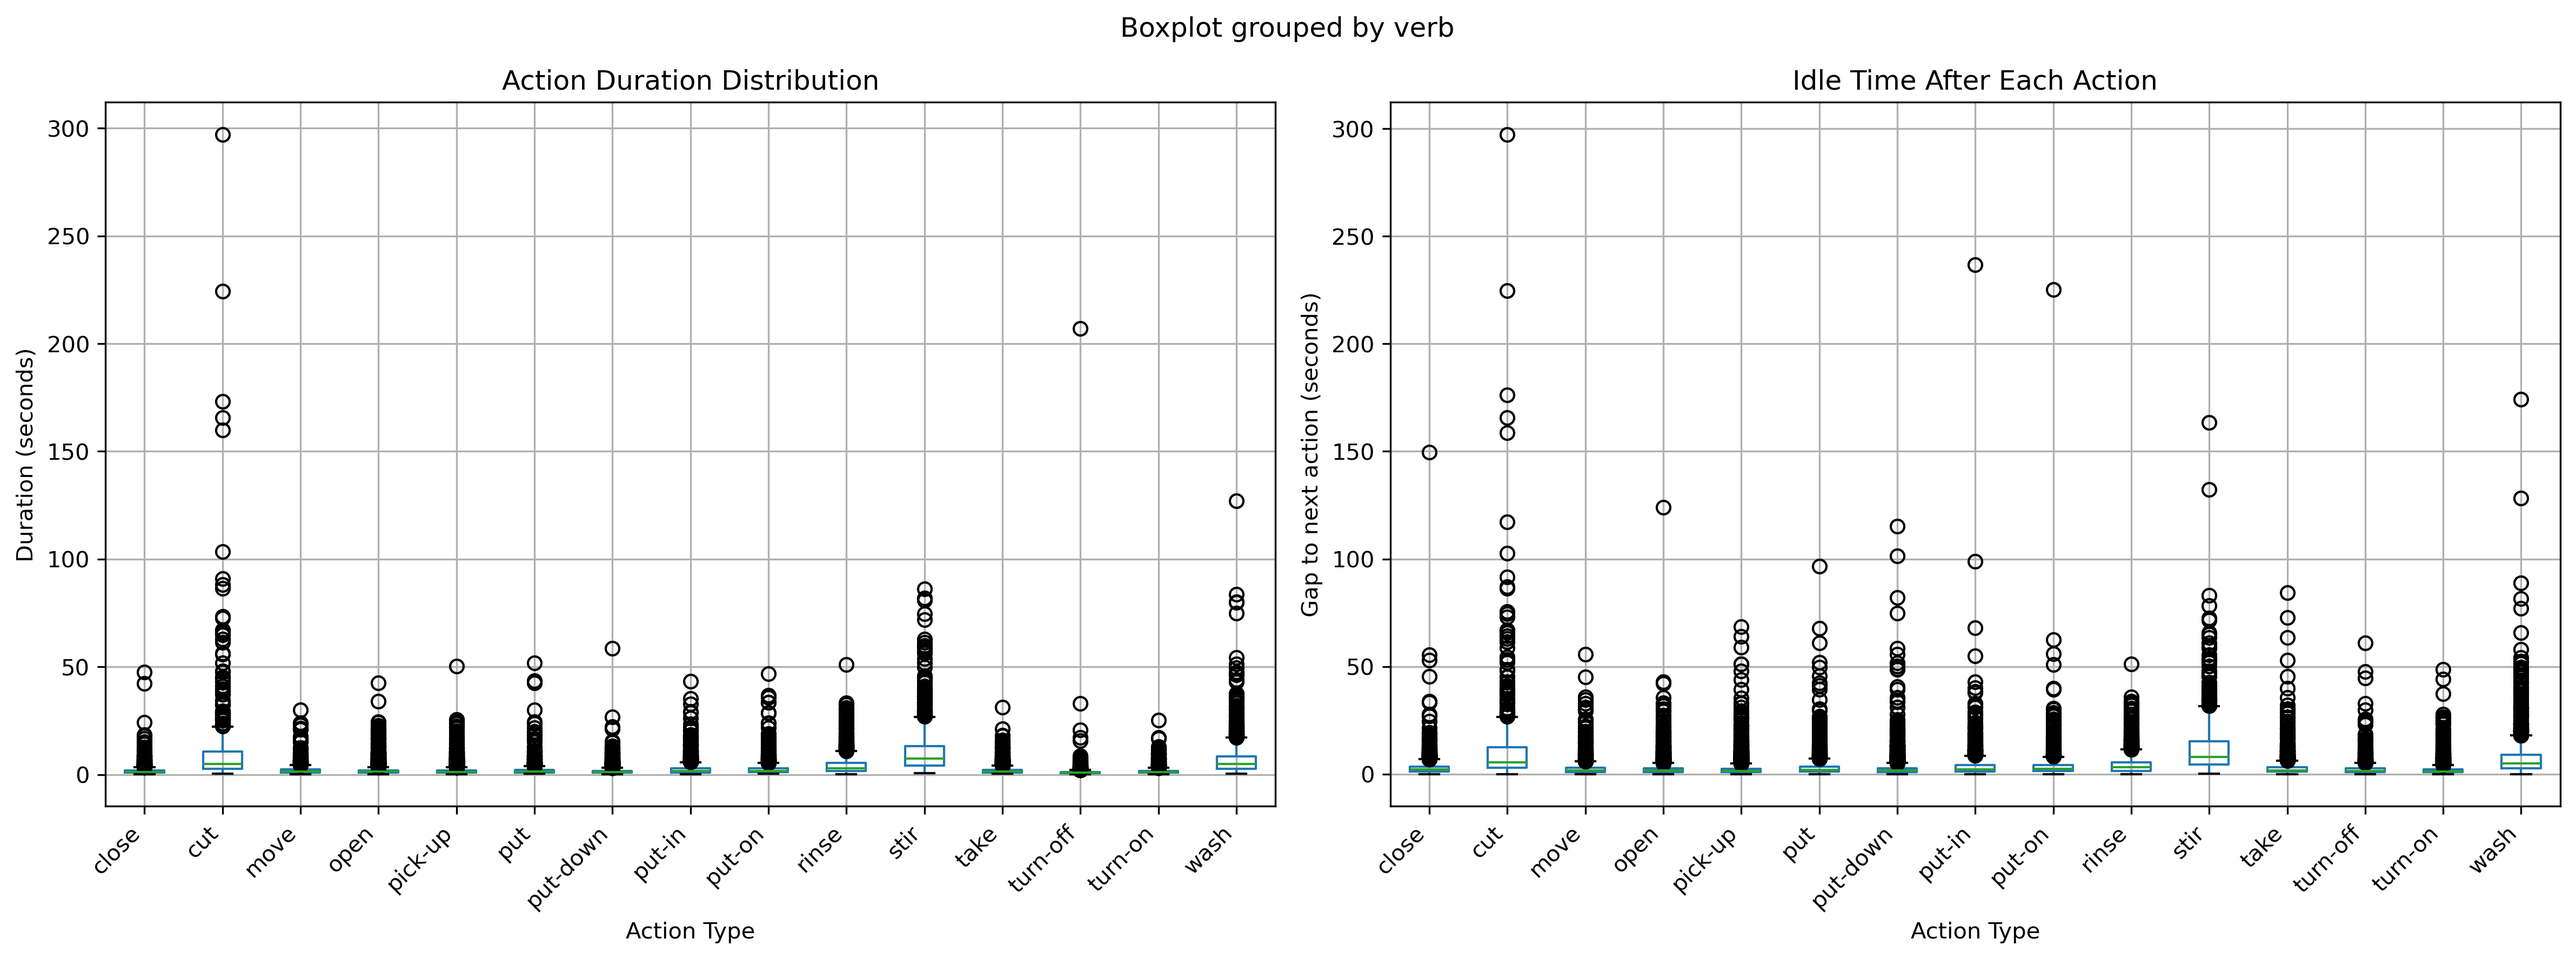
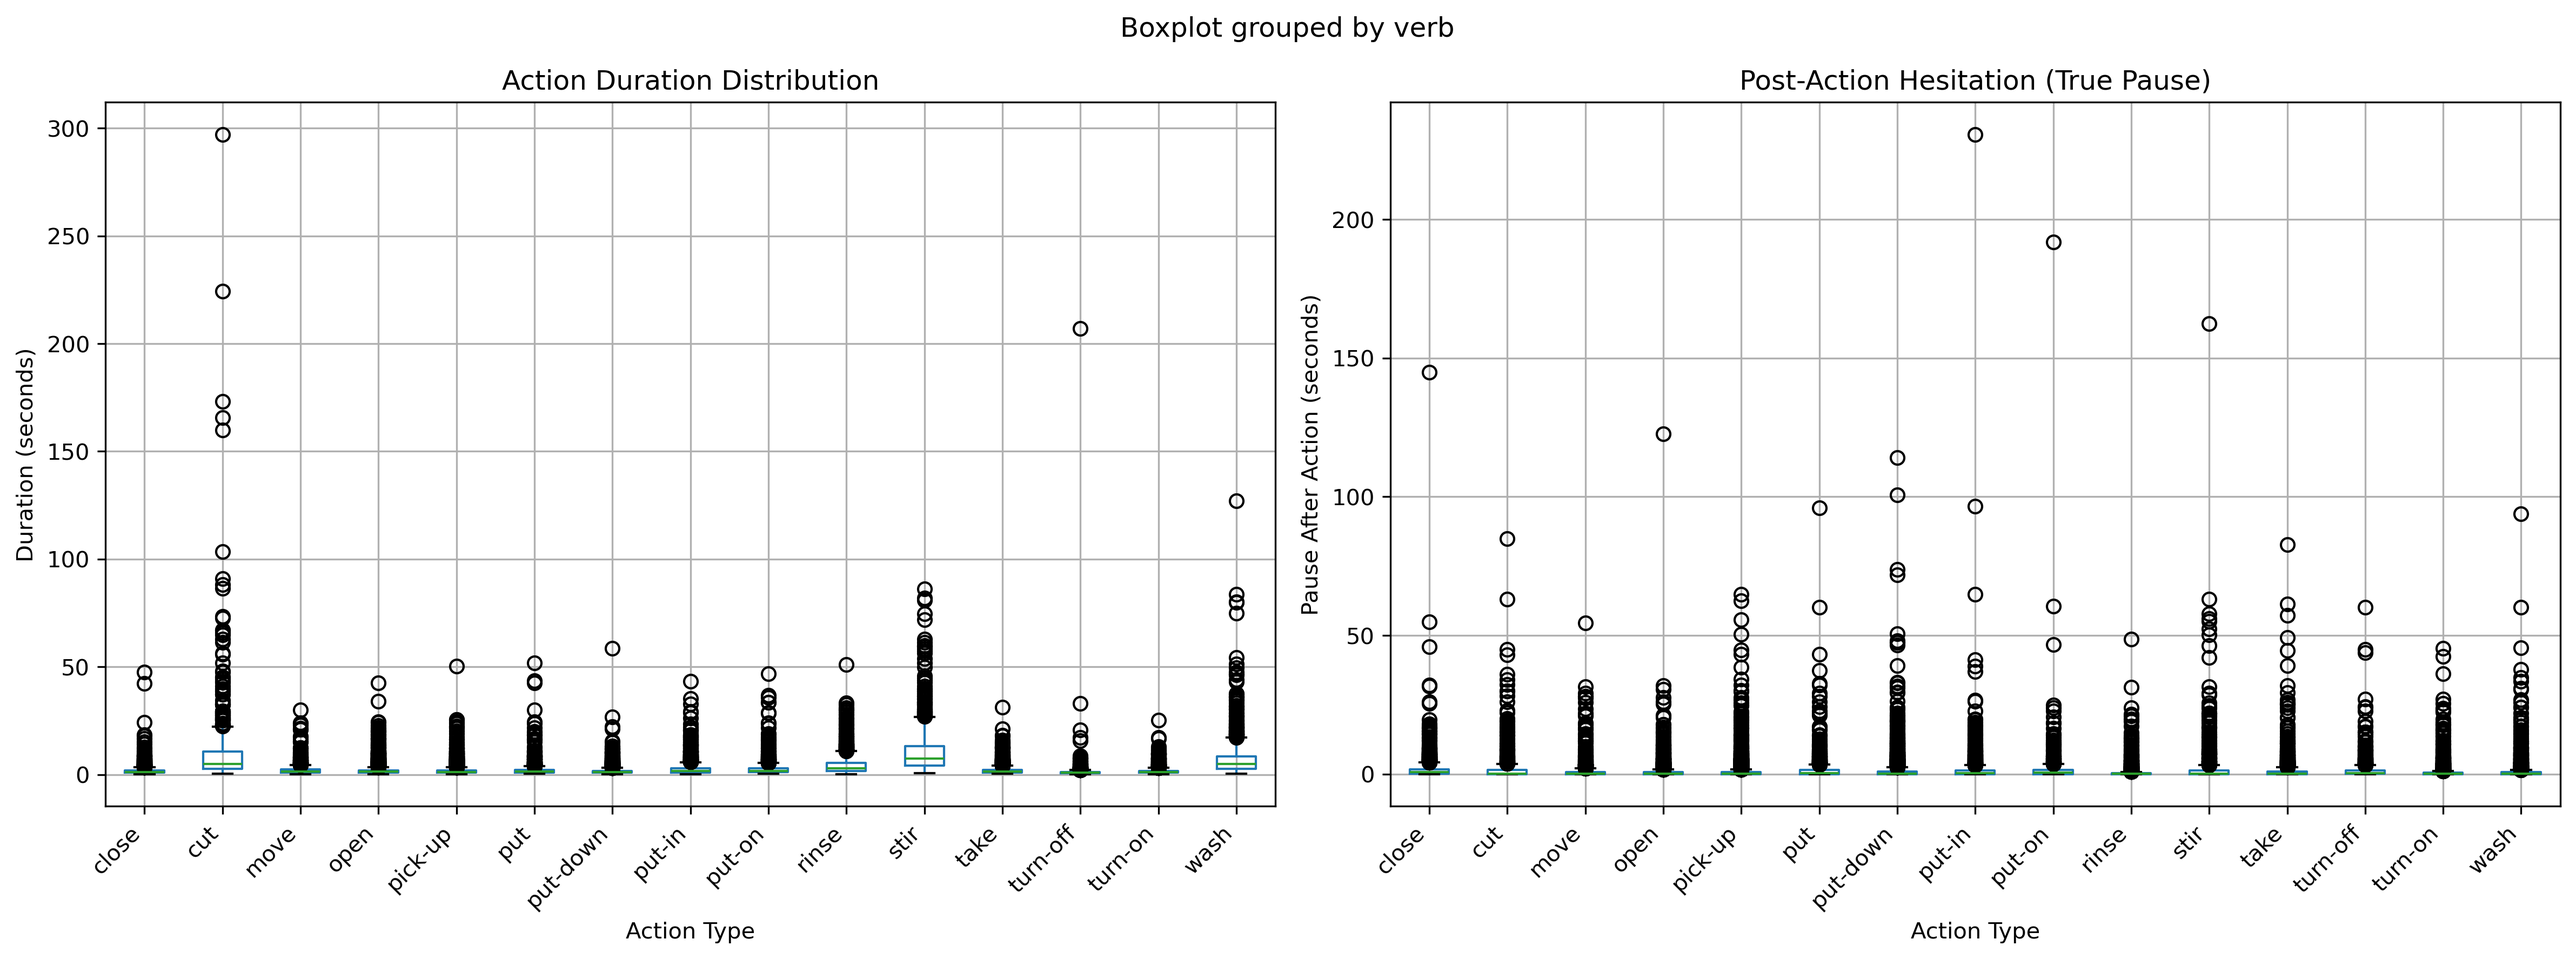
update temporal analysis

diff --git a/code/action_duration.py b/code/action_duration.py
@@ -1,64 +1,65 @@
 import pandas as pd
 import matplotlib.pyplot as plt
-import numpy as np
+import seaborn as sns
 
-# Load data
+# 1. SETUP & DATA CLEANING
 df = pd.read_csv('../EPIC_100_train.csv')
-
-# Convert timestamps to seconds
 df['start_seconds'] = pd.to_timedelta(df['start_timestamp']).dt.total_seconds()
 df['stop_seconds'] = pd.to_timedelta(df['stop_timestamp']).dt.total_seconds()
 df['duration'] = df['stop_seconds'] - df['start_seconds']
 
-# Calculate gaps between consecutive actions
+# Calculate "True Pause" (Gap between end of action A and start of action B)
 df = df.sort_values(['video_id', 'start_seconds'])
-df['gap_to_next'] = df.groupby('video_id')['start_seconds'].diff(-1).abs()
+df['true_pause'] = df.groupby('video_id')['start_seconds'].shift(-1) - df['stop_seconds']
+df['true_pause'] = df['true_pause'].apply(lambda x: x if x >= 0 else 0)
 
-# Analyze by action type
-action_stats = df.groupby('verb').agg({
-    'duration': ['mean', 'std', 'median'],
-    'gap_to_next': ['mean', 'std', 'median']
-}).round(2)
+# 2. AGGREGATE DATA
+# Most Frequent Actions
+top_freq_verbs = df['verb'].value_counts().head(10).index
+df_freq = df[df['verb'].isin(top_freq_verbs)]
 
-print("\n" + "="*80)
-print("ACTION DURATION ANALYSIS")
-print("="*80)
-print(action_stats.sort_values(('duration', 'mean'), ascending=False).head(20))
+# Longest Duration Actions (Mean)
+mean_stats = df.groupby('verb').agg({'duration': 'mean', 'true_pause': 'mean'}).round(2)
+top_duration_verbs = mean_stats.sort_values('duration', ascending=False).head(10)
+top_pause_verbs = mean_stats.sort_values('true_pause', ascending=False).head(10)
 
-# Visualize
-fig, (ax1, ax2) = plt.subplots(1, 2, figsize=(16, 6))
+# 3. CREATE THE 2x2 DASHBOARD
+fig, axes = plt.subplots(2, 2, figsize=(20, 16))
+plt.suptitle("Micro-Perspective Temporal Analysis: Physical Effort vs. Cognitive Struggle", fontsize=22, y=0.95)
 
-# Duration distribution
-top_verbs = df['verb'].value_counts().head(15).index
-df_subset = df[df['verb'].isin(top_verbs)]
+# PLOT 1: Most Frequent vs Duration
+sns.boxplot(data=df_freq, x='duration', y='verb', ax=axes[0,0], palette='Blues', order=top_freq_verbs)
+axes[0,0].set_title("1. Physical Effort: Duration of Most Frequent Actions", fontsize=15)
+axes[0,0].set_xlabel("Seconds")
 
-df_subset.boxplot(column='duration', by='verb', ax=ax1)
-ax1.set_xlabel('Action Type')
-ax1.set_ylabel('Duration (seconds)')
-ax1.set_title('Action Duration Distribution')
-ax1.set_xticklabels(ax1.get_xticklabels(), rotation=45, ha='right')
-plt.sca(ax1)
-plt.xticks(rotation=45, ha='right')
+# PLOT 2: Most Frequent vs True Pause
+sns.boxplot(data=df_freq, x='true_pause', y='verb', ax=axes[0,1], palette='Oranges', order=top_freq_verbs)
+axes[0,1].set_title("2. Cognitive Struggle: True Pause after Most Frequent Actions", fontsize=15)
+axes[0,1].set_xlabel("Seconds")
 
-# Gap distribution
-df_subset.boxplot(column='gap_to_next', by='verb', ax=ax2)
-ax2.set_xlabel('Action Type')
-ax2.set_ylabel('Gap to next action (seconds)')
-ax2.set_title('Idle Time After Each Action')
-ax2.set_xticklabels(ax2.get_xticklabels(), rotation=45, ha='right')
-plt.sca(ax2)
-plt.xticks(rotation=45, ha='right')
+# PLOT 3: Longest Time Actions (Mean)
+sns.barplot(x=top_duration_verbs['duration'], y=top_duration_verbs.index, ax=axes[1,0], palette='viridis')
+axes[1,0].set_title("3. Task Complexity: Top 10 Actions by Mean Duration", fontsize=15)
+axes[1,0].set_xlabel("Mean Seconds")
 
-plt.tight_layout()
-plt.savefig('../visualization/temporal_analysis.png', dpi=300, bbox_inches='tight')
+# PLOT 4: Actions with Longest True Pause (Mean)
+sns.barplot(x=top_pause_verbs['true_pause'], y=top_pause_verbs.index, ax=axes[1,1], palette='magma')
+axes[1,1].set_title("4. Resumption Risk: Top 10 Actions by Mean True Pause", fontsize=15)
+axes[1,1].set_xlabel("Mean Seconds")
+
+# Use hspace and wspace for relative spacing between subplots
+# hspace=0.6 adds significant vertical space to prevent label/title overlap
+plt.subplots_adjust(
+    left=0.1, 
+    right=0.95, 
+    top=0.85, 
+    bottom=0.15, 
+    hspace=0.5, 
+    wspace=0.3
+)
+
+# Alternatively, if you want Matplotlib to handle it automatically with specific padding
+# plt.tight_layout(rect=[0, 0.03, 1, 0.95], h_pad=3.0)
+
+plt.savefig('../visualization/unified_temporal_dashboard.png', dpi=300, bbox_inches='tight')
 plt.show()
-
-# Find actions with LONG gaps (potential intervention points)
-long_gaps = df[df['gap_to_next'] > 10].groupby('verb')['gap_to_next'].agg(['count', 'mean'])
-long_gaps = long_gaps[long_gaps['count'] > 20].sort_values('mean', ascending=False)
-
-print("\n" + "="*80)
-print("ACTIONS FOLLOWED BY LONG PAUSES (>10 seconds)")
-print("="*80)
-print("These are potential robot intervention points!")
-print(long_gaps)

diff --git a/code/intervention_threshold_true_pause.py b/code/intervention_threshold_true_pause.py
@@ -1,0 +1,75 @@
+import pandas as pd
+import matplotlib.pyplot as plt
+import seaborn as sns
+import numpy as np
+
+# 1. SETUP & DATA CLEANING
+df = pd.read_csv('../EPIC_100_train.csv')
+df['action'] = df['verb'] + "(" + df['noun'] + ")"
+df['start_seconds'] = pd.to_timedelta(df['start_timestamp']).dt.total_seconds()
+df['stop_seconds'] = pd.to_timedelta(df['stop_timestamp']).dt.total_seconds()
+
+# Calculate "True Pause"
+df = df.sort_values(['video_id', 'start_seconds'])
+df['true_pause'] = df.groupby('video_id')['start_seconds'].shift(-1) - df['stop_seconds']
+df['true_pause'] = df['true_pause'].apply(lambda x: x if x >= 0 else 0)
+
+# 2. FIND TOP HIGH-PAUSE ACTIONS (VERB-NOUN)
+# We filter for actions that occur at least 10 times to ensure statistical significance
+action_counts = df['action'].value_counts()
+significant_actions = action_counts[action_counts >= 10].index
+df_sig = df[df['action'].isin(significant_actions)]
+
+# Calculate Mean Pause and select Top 15 "Micro-Bottlenecks"
+top_pause_actions = df_sig.groupby('action')['true_pause'].mean().sort_values(ascending=False).head(15).index
+df_plot = df_sig[df_sig['action'].isin(top_pause_actions)]
+
+# 3. VISUALIZATION WITH THRESHOLDS
+plt.figure(figsize=(14, 10))
+colors = sns.color_palette("rocket_r", n_colors=len(top_pause_actions))
+
+# Draw the Boxplot
+ax = sns.boxplot(
+    data=df_plot, 
+    x='true_pause', 
+    y='action', 
+    order=top_pause_actions,
+    palette=colors,
+    showfliers=True,  # Show the "Struggle" outliers
+    fliersize=4,
+    linewidth=1.5
+)
+
+# 4. CALCULATE AND DRAW INTERVENTION THRESHOLDS
+for i, action in enumerate(top_pause_actions):
+    data = df[df['action'] == action]['true_pause'].dropna()
+    q1 = data.quantile(0.25)
+    q3 = data.quantile(0.75)
+    iqr = q3 - q1
+    threshold = q3 + (1.5 * iqr)
+    
+    # Draw a dashed red line for the "Robot Intervention Trigger"
+    plt.vlines(x=threshold, ymin=i-0.4, ymax=i+0.4, color='red', linestyle='--', alpha=0.7, label='Intervention Trigger' if i == 0 else "")
+    
+    # Highlight the "Struggle Zone"
+    plt.axvspan(threshold, df_plot['true_pause'].max(), ymin=1 - (i+1)/15, ymax=1 - i/15, color='red', alpha=0.05)
+
+# Formatting
+plt.title("Action-Specific Intervention Thresholds: High-Struggle Verb-Noun Pairs", fontsize=18, pad=20)
+plt.xlabel("True Pause Duration (Seconds) \n [Dashed Line = Statistical Threshold for Robot Intervention]", fontsize=12)
+plt.ylabel("Micro-Action (Verb + Noun)", fontsize=12)
+plt.grid(axis='x', linestyle=':', alpha=0.4)
+plt.legend(loc='upper right')
+
+plt.tight_layout()
+plt.savefig('../visualization/intervention_thresholds.png', dpi=300)
+plt.show()
+
+# 5. PRINT THE SUMMARY FOR THE REPORT
+print("\n" + "="*60)
+print("ROBOT INTERVENTION LOGIC (MICRO-PERSPECTIVE)")
+print("="*60)
+for action in top_pause_actions:
+    data = df[df['action'] == action]['true_pause'].dropna()
+    threshold = data.quantile(0.75) + (1.5 * (data.quantile(0.75) - data.quantile(0.25)))
+    print(f"Action: {action:30} Trigger Assistance after: {threshold:5.2f}s")
